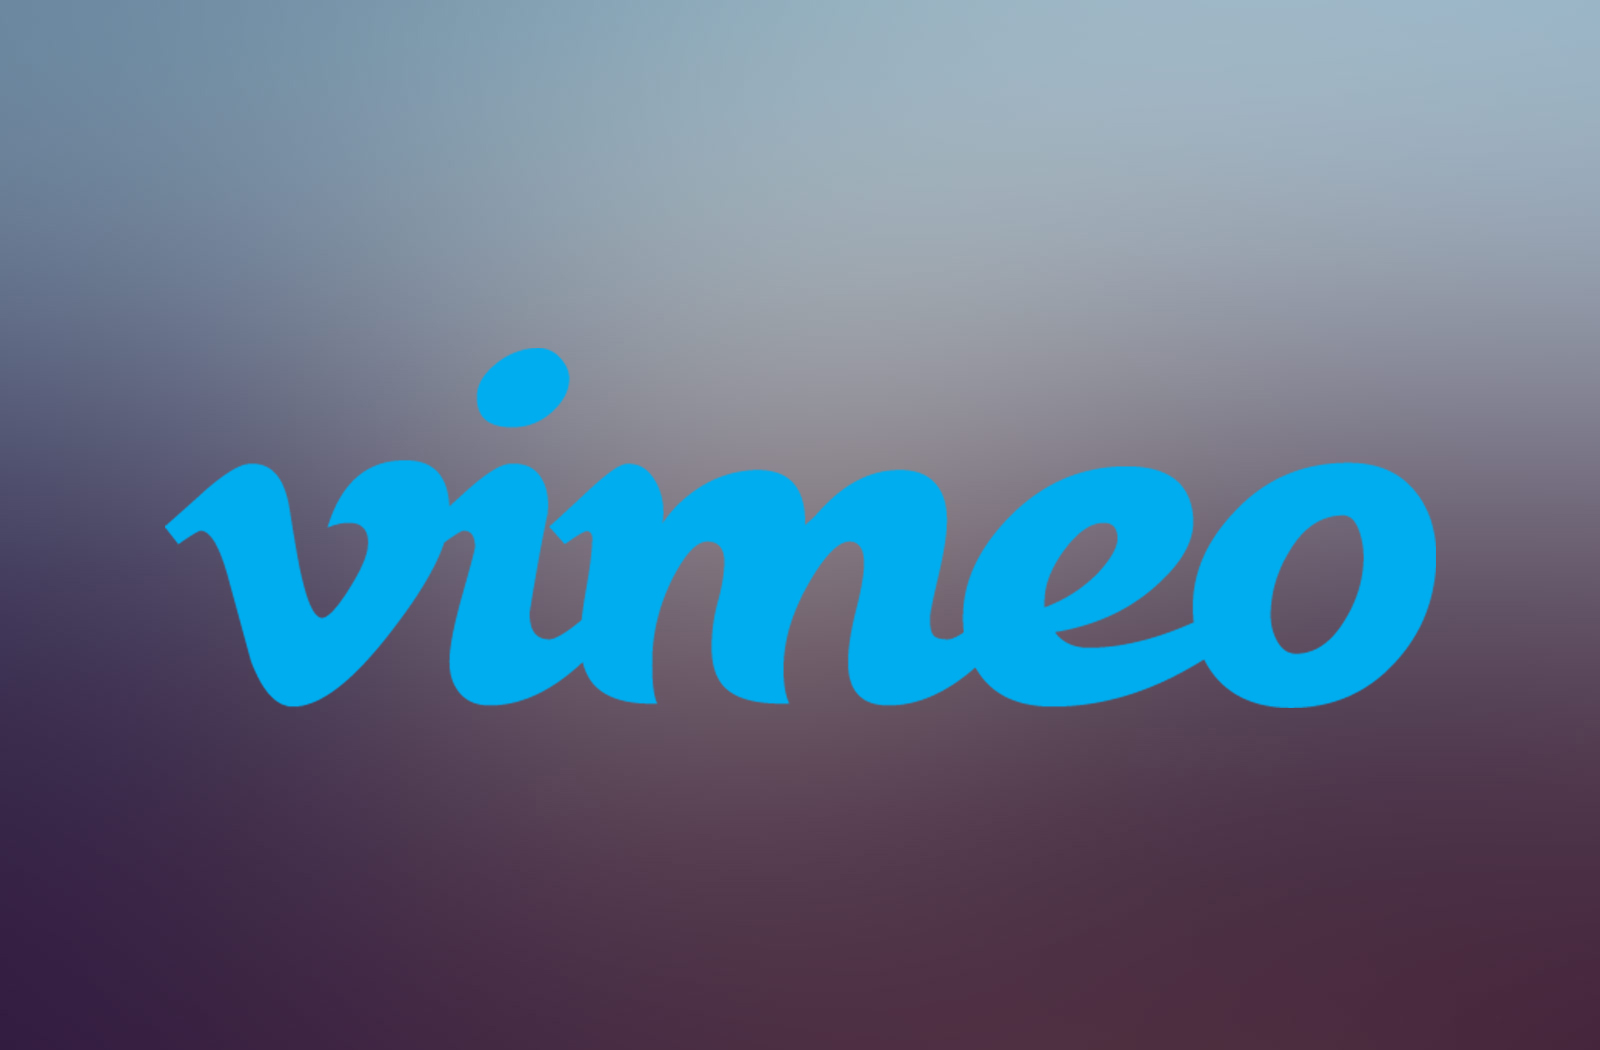
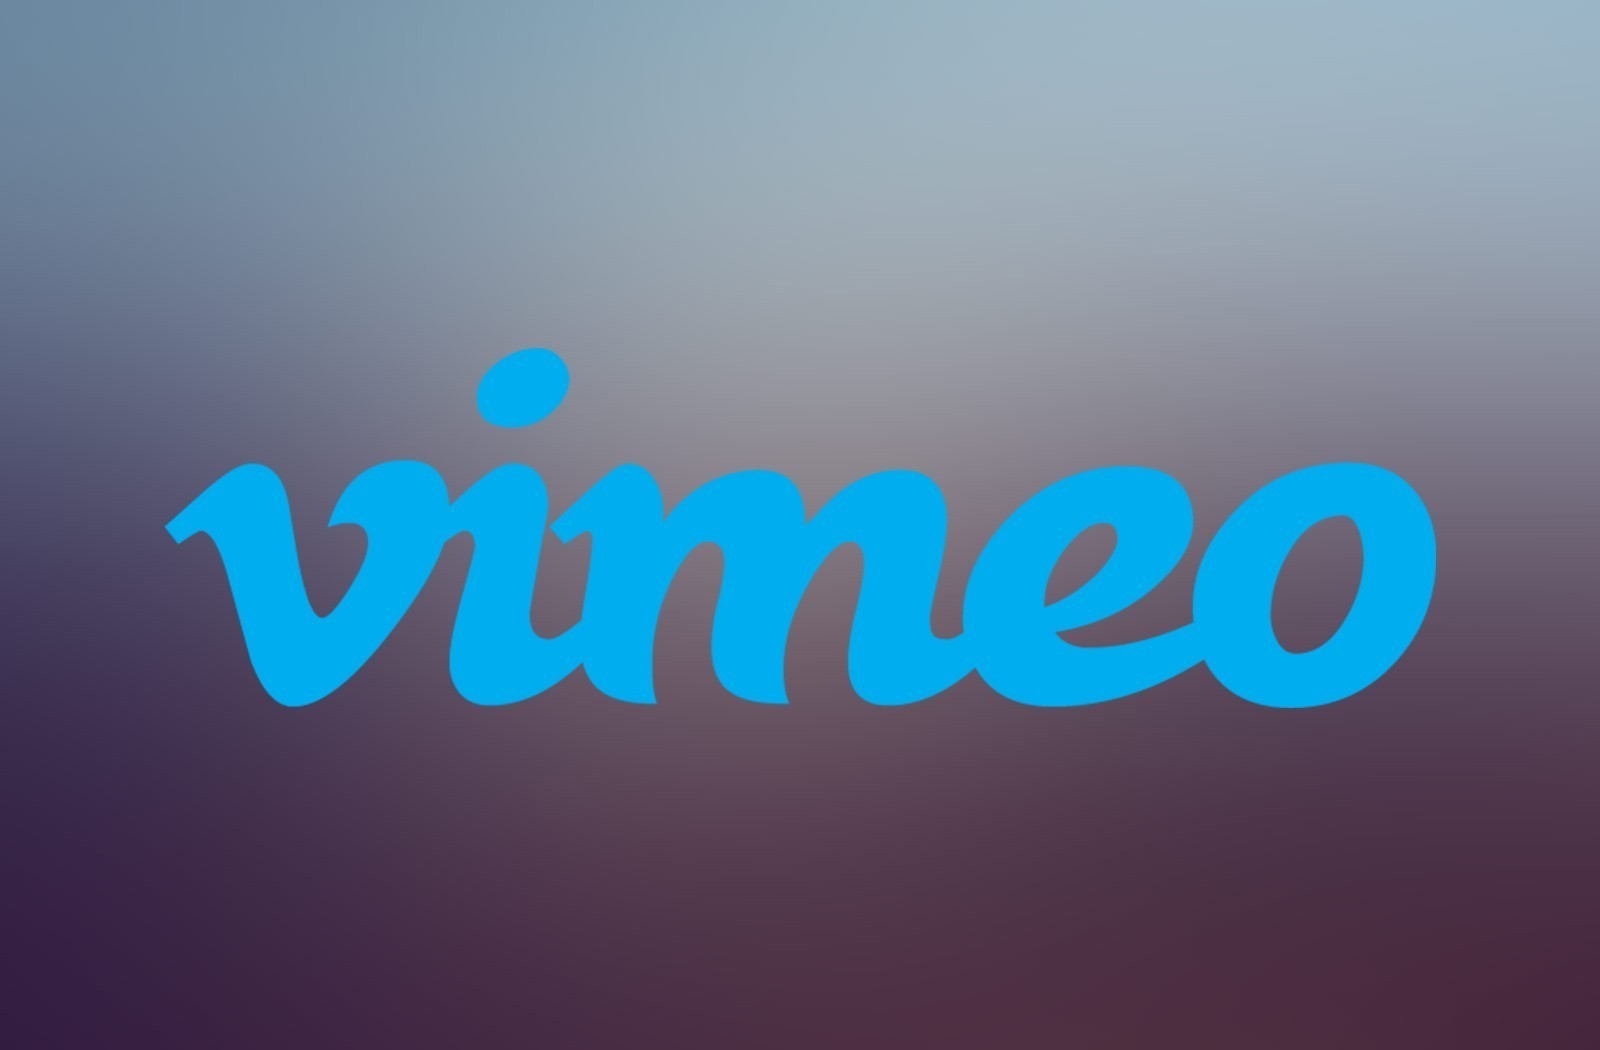
Made image.fit dynamic.

diff --git a/index.html b/index.html
@@ -96,8 +96,8 @@
 -->
 									</header>
 								</div>
-								<div class="4u  6u$(xsmall)"><a href="https://www.youtube.com/user/CalvaryMV"><span class="image fit"><img src="images/youtube-color-gradient.jpg" alt="" /></span></div></a>
-								<div class="4u  6u$(xsmall)"><a href="https://vimeo.com/calvarymountainview"><span class="image fit"><img src="images/vimeo-gradient.jpg" alt="" /></span></div></a>
+								<div class="4u  6u$(xsmall)"><a href="https://www.youtube.com/user/CalvaryMV" style="text-decoration: none"><span class="image fit"><img src="images/youtubecolor-small.jpg" alt="" /></span></div></a>
+								<div class="4u  6u$(xsmall)"><a href="https://vimeo.com/calvarymountainview"><span class="image fit"><img src="images/vimeo-small.jpg" alt="" /></span></div></a>
 							</div>
 						</div>
 					</div>

diff --git a/assets/css/main.css b/assets/css/main.css
@@ -1572,7 +1572,6 @@
 		-webkit-transition: border-color 0.2s ease-in-out, color 0.2s ease-in-out;
 		-ms-transition: border-color 0.2s ease-in-out, color 0.2s ease-in-out;
 		transition: border-color 0.2s ease-in-out, color 0.2s ease-in-out;
-		border-bottom: dotted 1px;
 		color: #0ea559;
 		text-decoration: none;
 	}
@@ -2508,8 +2507,13 @@
 
 		.image.fit {
 			display: inline-block;
-			margin: 2em 5em 0em 2em;
-			width: 20em;
+			text-align: center;
+			/*margin: 2em 5em 0em 2em; */
+			height: auto;
+			width: auto;
+			text-decoration: none;
+			outline: none;
+			border: 0px;
 		}
 
 			.image.fit img {
